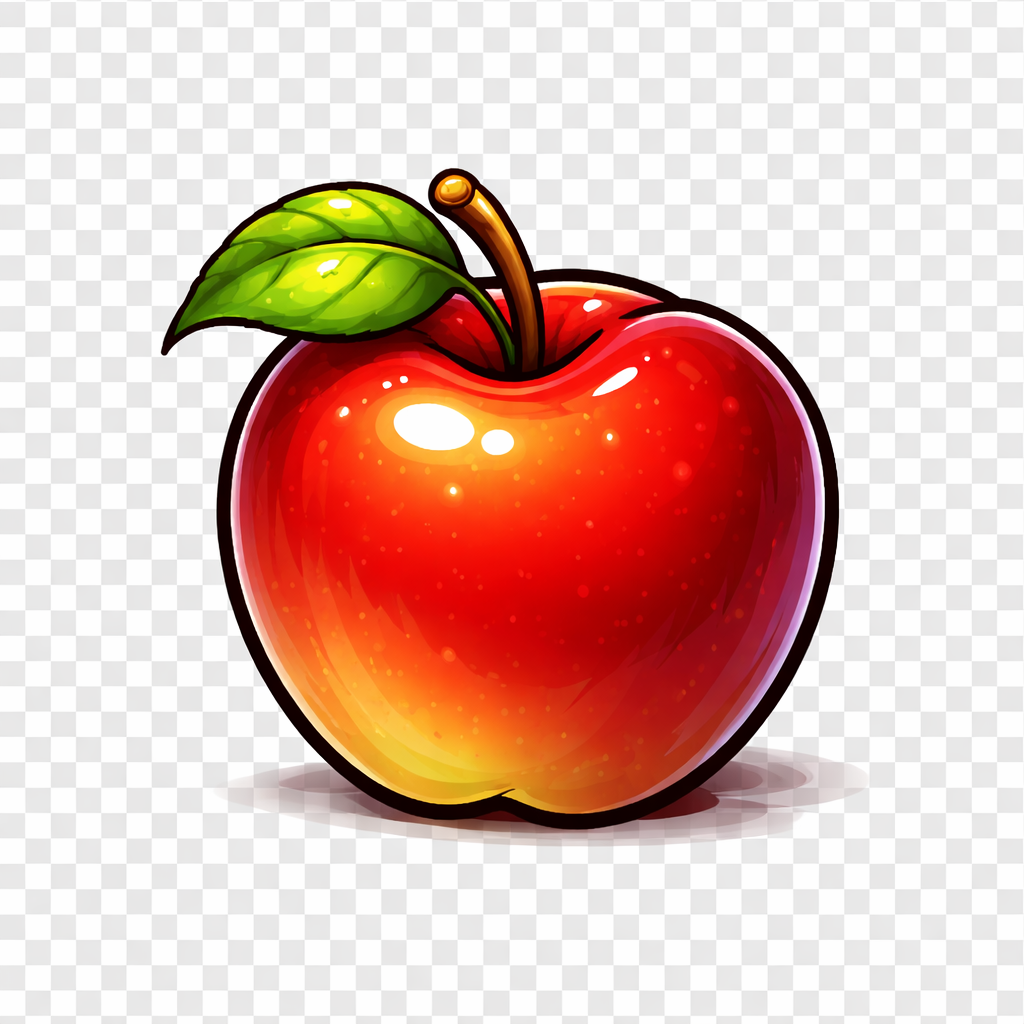
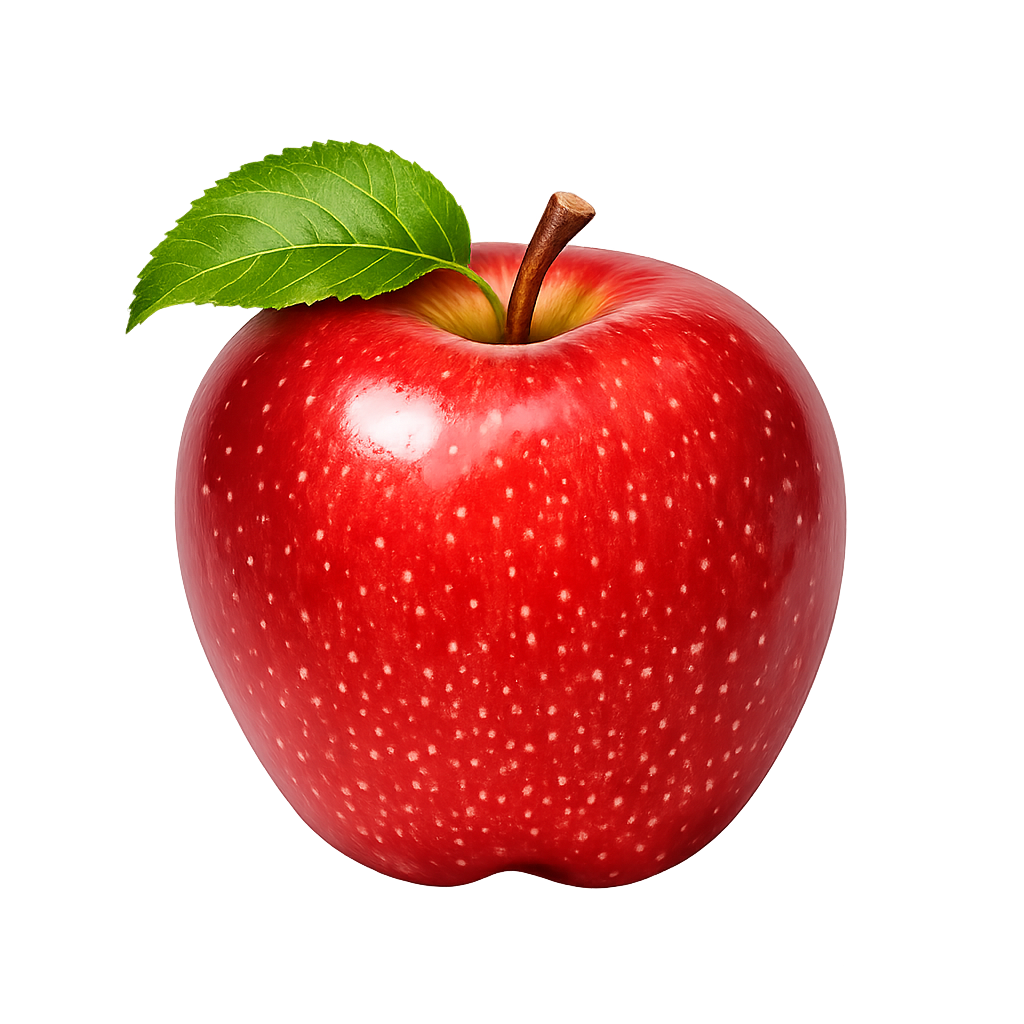
Food changed to apple

diff --git a/script.js b/script.js
@@ -55,6 +55,11 @@ function poisonPosition() {
 
 let poison = poisonPosition();
 
+//Poison and food not in same place
+if(poison.x === food.x && poison.y === food.y){
+    poison = poisonPosition();
+}
+
 
 
 function gameLoop() {
@@ -135,18 +140,18 @@ function draw() {
        // gridSize
     //);
 
-    const poisonSize = 40 + Math.sin(Date.now() / 100) * 5;
+    const foodSize = 40;
 
     ctx.drawImage(
         appleImg,
-        food.x * gridSize - (poisonSize - gridSize) / 2,
-        food.y * gridSize - (poisonSize - gridSize) / 2,
-        poisonSize,
-        poisonSize
+        food.x * gridSize - (foodSize - gridSize) / 2,
+        food.y * gridSize - (foodSize - gridSize) / 2,
+        foodSize,
+        foodSize
         );
     
 
-    
+    const poisonSize = 40 + Math.sin(Date.now() / 100) * 5;
     
     ctx.drawImage(
         poisonImg,
